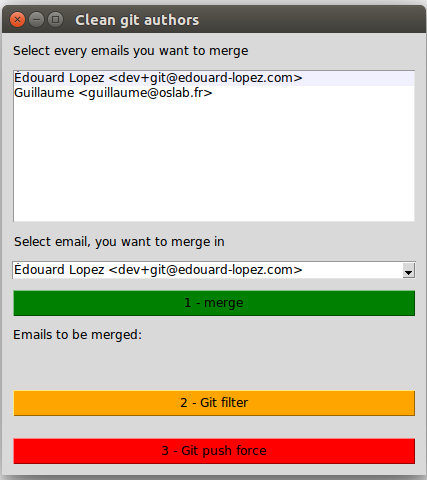
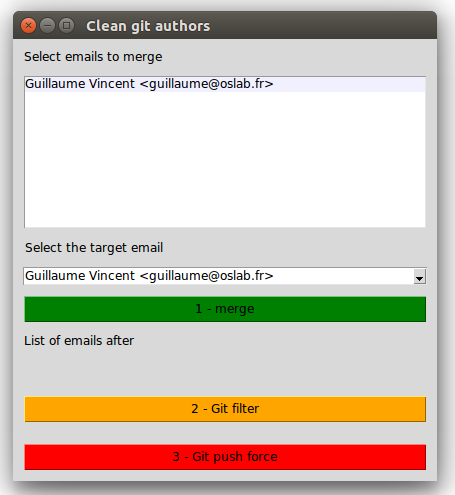
improve documentation

Changed region(s): [[0.0, 0.0, 1.0, 1.0]]

diff --git a/cleangit/main.py b/cleangit/main.py
@@ -9,6 +9,8 @@ import tkinter.ttk
 from cleangit.authors import get_list_authors, merge_authors, parse_authors
 from cleangit.script import get_script
 
+git_filter_ok = False
+
 
 def git_push():
     if git_filter_ok:
@@ -57,7 +59,6 @@ def start():
 
     authors = parse_authors(stdout)
     merged_authors = {}
-    git_filter_ok = False
 
     def update_merge_author():
         ids_to_merge = authors_list_widget.curselection()
@@ -80,15 +81,15 @@ def start():
 
     width = 50
     # widgets
-    explanation1 = tkinter.ttk.Label(text='Select every emails you want to merge')
+    explanation1 = tkinter.ttk.Label(text='Select emails to merge')
     authors_display = tkinter.StringVar(value=get_list_authors(authors))
     authors_list_widget = tkinter.Listbox(width=width, selectmode='extended', listvariable=authors_display,
                                           exportselection=0)
-    explanation2 = tkinter.Label(text='Select email, you want to merge in')
+    explanation2 = tkinter.Label(text='Select the target email')
     destination_email_text = tkinter.StringVar(value=get_list_authors(authors)[0])
     destination_email_widget = tkinter.ttk.Combobox(textvariable=destination_email_text)
     merge_btn = tkinter.Button(text='1 - merge', command=update_merge_author, bg="green")
-    explanation3 = tkinter.ttk.Label(text='Emails to be merged:')
+    explanation3 = tkinter.ttk.Label(text='List of emails after')
     logs_widget = tkinter.ttk.Label()
     git_filter_btn = tkinter.Button(text="2 - Git filter", command=git_filter_cmd, bg="orange")
     git_push_btn = tkinter.Button(text="3 - Git push force", command=git_push, bg="red")

diff --git a/setup.py b/setup.py
@@ -1,13 +1,13 @@
-from distutils.core import setup
+from setuptools import setup
 
 setup(
     name='cleangit',
-    version='0.0.7',
+    version='0.0.8',
     author='Guillaume Vincent',
     author_email='guillaume@oslab.fr',
     scripts=['clean-git'],
     packages=['cleangit'],
-    url='https://github.com/guillaumevincent/clean-git/tarball/0.0.7',
+    url='https://github.com/guillaumevincent/clean-git',
     license='wtfpl - Do what the fuck you want to public license',
     description='gui to clean git repository author conflicts'
 )

diff --git a/README.md b/README.md
@@ -1,13 +1,13 @@
 [![Build Status](https://travis-ci.org/guillaumevincent/clean-git.svg?branch=master)](https://travis-ci.org/guillaumevincent/clean-git)
 
 
-# Cleaning author in git repository by changing the Git history using a script
+# Clean git : clean the authors of your deposit git
 
-I've created a script that will change any commits that previously had bad email address in its author or committer fields to use the correct name and email address.
-Usefull when you want to fix error in graph for example.
+Clean git is an interface to help clean authors and emails a repository git. This is an interface to perform an improved version of the github script : https://help.github.com/articles/changing-author-info/
 
 
-version 0.0.7
+
+version 0.0.8
 
 ![](screenshot.png?raw=true)
 
@@ -17,7 +17,7 @@ version 0.0.7
  - python 3.5 (check with `python3 --version`)
  - pip (check with `pip --version`)
  - git (check with `git --version`)
- - unix system (On windows, you probably need cygwin)
+ - unix system (I haven't tested on windows, it probably works on cygwin)
 
 **Warning**: This action is destructive to your repository's history. If you're collaborating on a repository with others, it's considered bad practice to rewrite published history. You should only do this in an emergency.
 

diff --git a/PyPI.md b/PyPI.md
@@ -1,0 +1,27 @@
+# PyPI
+
+Upload your package to PyPI Test
+
+Run:
+
+    python setup.py register -r pypitest
+
+This will attempt to register your package against PyPI's test server, just to make sure you've set up everything correctly.
+
+Then, run:
+
+    python setup.py sdist upload -r pypitest
+
+You should get no errors, and should also now be able to see your library in the test PyPI repository.
+Upload to PyPI Live
+
+Once you've successfully uploaded to PyPI Test, perform the same steps but point to the live PyPI server instead. To register, run:
+
+    python setup.py register -r pypi
+
+Then, run:
+
+    python setup.py sdist upload -r pypi
+
+
+more: http://peterdowns.com/posts/first-time-with-pypi.html
